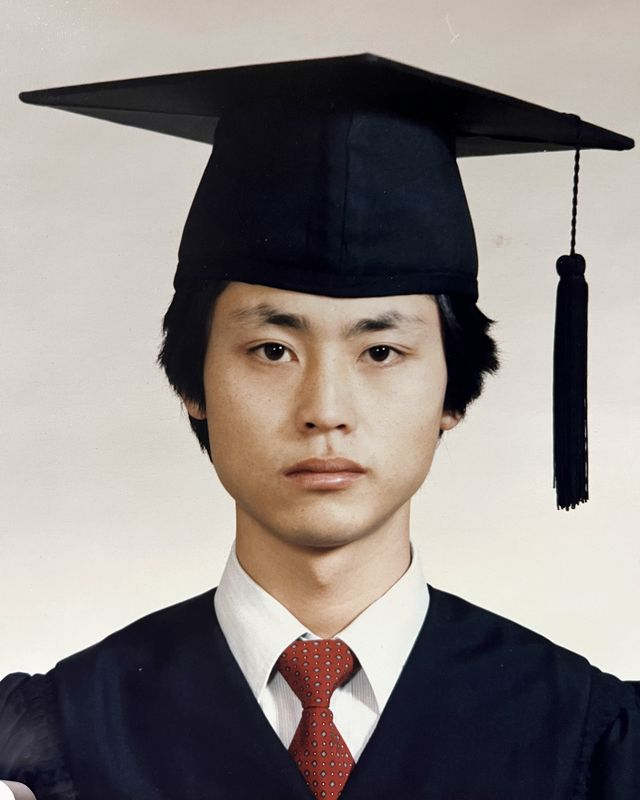
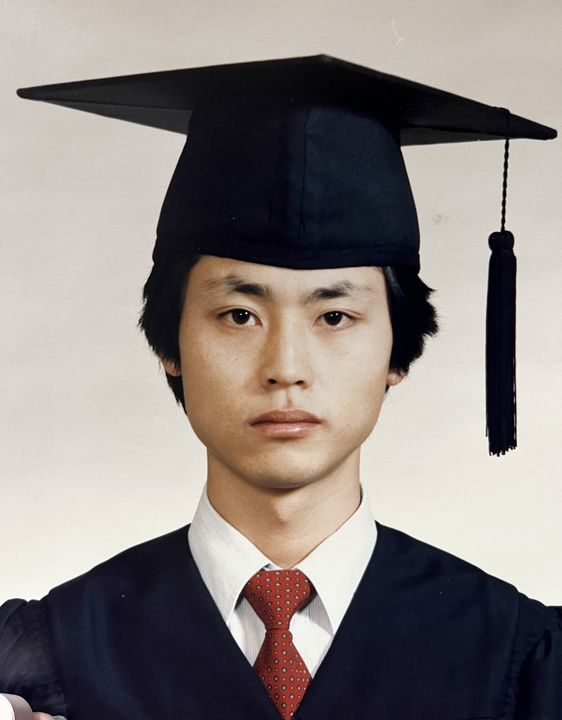
차창: 사진 5장 추가(16장), 원래 비율로, 설명 고침, 객실째 흔들림
Claude-Session: https://claude.ai/code/session_01XSTBUA2D7ZPkhLo72WSm8B

diff --git a/index.html b/index.html
@@ -83,6 +83,8 @@ h2{font-size:21px;font-weight:700;letter-spacing:-.01em;margin:6px 0 6px;text-wr
 
 /* ── 차창 밖 풍경: 객실 안에서 보는 창(객실 사진 cabin.webp = Gemini 로 만든 것, 창유리만 투명). 창밖엔 가족사진만 천천히 흐른다. 사진이 창밖을 채워 흐르고, 사진은 가장자리를 겹쳐 이어진 풍경처럼. (그려 넣은 기둥·울타리·안개·반사는 「그래픽 티가 난다」고 해서 뺌) */
 .cabin{position:relative;margin-top:14px;aspect-ratio:840/836;border-radius:6px;overflow:hidden;background:#E2DED6}
+.car{position:absolute;inset:-2.5%;will-change:transform}
+.shade{position:absolute;inset:0;background:#000;opacity:0;pointer-events:none;z-index:3}
 .cabin-img{position:absolute;inset:0;width:100%;height:100%;pointer-events:none;z-index:2;user-select:none;-webkit-user-drag:none}
 /* 창 자리(cabin_frame.py 가 잰 값보다 살짝 크게 — 가장자리는 창틀 사진이 덮음) */
 .pane{position:absolute;left:8.2%;top:14.8%;width:84%;height:57.8%;overflow:hidden;background:#BFD0DF;
@@ -90,9 +92,9 @@ h2{font-size:21px;font-weight:700;letter-spacing:-.01em;margin:6px 0 6px;text-wr
 .pane:active{cursor:grabbing}
 .pane::after{content:"";position:absolute;inset:0;pointer-events:none;z-index:6;box-shadow:inset 0 14px 16px -10px rgba(0,0,0,.4),inset 0 -8px 12px -8px rgba(0,0,0,.3)}
 .strip{position:absolute;left:0;top:0;bottom:0;display:flex;will-change:transform}
-.strip figure{margin:0 -34px 0 0;height:100%;aspect-ratio:4/5;flex:none;
+.strip figure{margin:0 -34px 0 0;height:100%;flex:none;
   -webkit-mask-image:linear-gradient(90deg,transparent,#000 34px,#000 calc(100% - 34px),transparent);mask-image:linear-gradient(90deg,transparent,#000 34px,#000 calc(100% - 34px),transparent)}
-.strip img{display:block;width:100%;height:100%;object-fit:cover;pointer-events:none;-webkit-user-drag:none}
+.strip img{display:block;width:auto;height:100%;pointer-events:none;-webkit-user-drag:none}
 .halt{position:absolute;right:10px;bottom:10px;z-index:7;background:var(--ink);color:#fff;font-size:11.5px;font-family:var(--mono);padding:4px 8px;border-radius:3px}
 .winnow{display:flex;gap:10px;align-items:baseline;margin:12px 2px 0;font-size:16px;min-height:1.6em}
 .winnow span{font-family:var(--mono);font-size:11px;color:var(--faint)}
@@ -266,25 +268,33 @@ h2{font-size:21px;font-weight:700;letter-spacing:-.01em;margin:6px 0 6px;text-wr
     <h2 id="h-win">함께 지나온 풍경</h2>
     <p class="lead">창밖으로 지나가는 풍경이에요. 창을 누르면 잠시 서고, 손으로 끌어 넘길 수도 있어요</p>
     <div class="cabin">
-      <div class="pane" id="pane" role="img" aria-label="기차 창밖으로 사진 11장이 차례로 지나가요">
-        <div class="strip" id="strip">
-      <figure><img src="p/01.jpg" alt="학사모를 쓴 젊은 시절 박사님" width="640" height="800"><figcaption hidden>출발하던 날</figcaption></figure>
-      <figure><img src="p/02.jpg" alt="웨딩 사진 속 두 분" width="640" height="800"><figcaption hidden>평생의 동행이 탑승했어요</figcaption></figure>
-      <figure><img src="p/04.jpg" alt="계곡 바위 앞에서 웃는 두 분" width="640" height="800"><figcaption hidden>여름, 잠시 쉬어 가는 역</figcaption></figure>
-      <figure><img src="p/05.jpg" alt="쾰른 대성당이 보이는 강가에 선 박사님" width="640" height="800"><figcaption hidden>멀리 유럽까지</figcaption></figure>
-      <figure><img src="p/06.jpg" alt="밤의 대관람차 앞에 선 박사님" width="640" height="800"><figcaption hidden>낯선 도시의 밤</figcaption></figure>
-      <figure><img src="p/07.jpg" alt="겨울 파리에서 목도리를 두른 박사님" width="640" height="800"><figcaption hidden>겨울 파리에서</figcaption></figure>
-      <figure><img src="p/08.jpg" alt="사진관에서 나란히 앉은 두 분" width="640" height="800"><figcaption hidden>나란히, 오래도록</figcaption></figure>
-      <figure><img src="p/09.jpg" alt="케이크 앞에 앉은 두 분" width="640" height="800"><figcaption hidden>작은 축하들</figcaption></figure>
-      <figure><img src="p/10.jpg" alt="거실 소파에서 쉬는 박사님과 브이를 한 어머님" width="640" height="800"><figcaption hidden>집이 제일 좋은 역</figcaption></figure>
-      <figure><img src="p/11.jpg" alt="소파에 누워 브이를 한 박사님" width="640" height="800"><figcaption hidden>이제는 소파역 장기 정차</figcaption></figure>
-      <figure><img src="p/12.jpg" alt="푸른 들판에서 어깨동무하고 웃는 두 분" width="640" height="800"><figcaption hidden>다음 역, 행복한 인생 2막</figcaption></figure>
+      <div class="car" id="car">
+        <div class="pane" id="pane" role="img" aria-label="기차 창밖으로 사진 16장이 차례로 지나가요">
+          <div class="strip" id="strip">
+            <figure><img src="p/01.jpg" alt="학사모를 쓴 젊은 시절 박사님" width="562" height="720"><figcaption hidden>학사모를 쓰던 날</figcaption></figure>
+            <figure><img src="p/02.jpg" alt="웨딩 사진 속 두 분" width="901" height="720"><figcaption hidden>두 분이 함께 출발한 날</figcaption></figure>
+            <figure><img src="p/03.jpg" alt="계곡 바위 앞에서 웃는 두 분" width="557" height="720"><figcaption hidden>계곡에서, 젊은 날의 두 분</figcaption></figure>
+            <figure><img src="p/04.jpg" alt="쾰른 대성당이 보이는 강가에 선 박사님" width="635" height="720"><figcaption hidden>쾰른 대성당 앞 강가에서</figcaption></figure>
+            <figure><img src="p/05.jpg" alt="밤의 대관람차 앞에 선 박사님" width="554" height="720"><figcaption hidden>파리, 대관람차가 빛나던 밤</figcaption></figure>
+            <figure><img src="p/06.jpg" alt="겨울 파리에서 목도리를 두른 박사님" width="584" height="720"><figcaption hidden>목도리를 두른 겨울 파리</figcaption></figure>
+            <figure><img src="p/07.jpg" alt="사진관에서 나란히 앉은 두 분" width="540" height="720"><figcaption hidden>사진관에서, 나란히</figcaption></figure>
+            <figure><img src="p/08.jpg" alt="햇살 아래 목도리를 두른 박사님" width="490" height="720"><figcaption hidden>햇살 좋은 날</figcaption></figure>
+            <figure><img src="p/09.jpg" alt="손을 흔들며 웃는 박사님" width="497" height="720"><figcaption hidden>반갑게 손 흔들며</figcaption></figure>
+            <figure><img src="p/10.jpg" alt="환하게 웃는 박사님" width="464" height="493"><figcaption hidden>환하게 웃으며</figcaption></figure>
+            <figure><img src="p/11.jpg" alt="케이크 앞에 앉은 두 분" width="1250" height="720"><figcaption hidden>케이크 앞에서 두 분</figcaption></figure>
+            <figure><img src="p/12.jpg" alt="영상통화 화면 속 웃는 박사님" width="356" height="720"><figcaption hidden>영상통화 너머 웃음</figcaption></figure>
+            <figure><img src="p/13.jpg" alt="모자를 쓰고 안마의자에 앉은 박사님" width="960" height="720"><figcaption hidden>안마의자에서 쉬는 중</figcaption></figure>
+            <figure><img src="p/14.jpg" alt="거실 소파에서 쉬는 박사님과 브이를 한 어머님" width="923" height="720"><figcaption hidden>거실 소파에서, 함께</figcaption></figure>
+            <figure><img src="p/15.jpg" alt="소파에 누워 브이를 한 박사님" width="1086" height="720"><figcaption hidden>소파에 누워 브이</figcaption></figure>
+            <figure><img src="p/16.jpg" alt="푸른 들판에서 어깨동무하고 웃는 두 분" width="1262" height="720"><figcaption hidden>들판에서 함께 웃으며 · 다음 역, 인생 2막</figcaption></figure>
+          </div>
+          <div class="halt" id="halt" hidden>잠시 정차 중</div>
         </div>
-        <div class="halt" id="halt" hidden>잠시 정차 중</div>
+        <img class="cabin-img" src="cabin.webp" alt="" width="840" height="836">
+        <div class="shade" id="shade" aria-hidden="true"></div>
       </div>
-      <img class="cabin-img" src="cabin.webp" alt="" width="840" height="836">
     </div>
-    <p class="winnow" aria-live="polite"><span id="nowno">01</span><b id="nowcap">출발하던 날</b></p>
+    <p class="winnow" aria-live="polite"><span id="nowno">01</span><b id="nowcap">학사모를 쓰던 날</b></p>
     <div class="rail" id="winrail" aria-hidden="true"></div>
     <div class="rail-ends" aria-hidden="true"><span>출발</span><span>인생 2막</span></div>
   </section>
@@ -353,21 +363,27 @@ const BGM=(function(){const au=new Audio('bgm.mp3');au.loop=true;au.preload='non
   // 메모 쓰기에서 「보기」로 넘어온 경우(#notes)는 첫 화면을 건너뛰고 메모로 바로
   if(location.hash==='#notes'){a.hidden=true;setTimeout(()=>document.getElementById('notes').scrollIntoView(),300)}
 })();
-// 차창 밖 풍경: 사진 띠가 왼쪽으로 천천히 흐르고(끝나면 처음부터 다시), 아주 살짝 흔들림
-(function(){const pane=document.getElementById('pane'),st=document.getElementById('strip'),rl=document.getElementById('winrail'),
+// 차창 밖 풍경: 사진 띠가 왼쪽으로 천천히 흐르고(끝나면 처음부터 다시). 객실(창틀 사진째)은 달리는 기차처럼 살짝 흔들리고,
+// 이음매를 지날 때마다 덜컹 — 창밖 풍경은 반대로 조금 밀려 깊이가 생긴다. 정차 중엔 흔들림도 멈춤. 사진 너비는 제각각.
+(function(){const pane=document.getElementById('pane'),st=document.getElementById('strip'),car=document.getElementById('car'),sh=document.getElementById('shade'),rl=document.getElementById('winrail'),
     halt=document.getElementById('halt'),no=document.getElementById('nowno'),cap=document.getElementById('nowcap'),now=cap.parentNode;
   const fs=[...st.querySelectorAll('figure')],N=fs.length,caps=fs.map(f=>f.querySelector('figcaption').textContent);
   fs.forEach(f=>st.appendChild(f.cloneNode(true)));                     // 이어 붙여서 끊김 없이 돌게
-  const SPEED=reduce?0:22;let x=0,v=SPEED,target=null,paused=false,drag=null,last=0,seen=false,cur=-1,loop=1,pitch=1;
-  const measure=()=>{const a=fs[0].getBoundingClientRect(),b=fs[1].getBoundingClientRect();pitch=b.left-a.left;loop=pitch*N};
-  const bs=caps.map((c,i)=>{const b=document.createElement('button');b.tabIndex=-1;b.addEventListener('click',()=>{target=i*pitch+pitch/2-pane.clientWidth/2;paused=false;halt.hidden=true});rl.appendChild(b);return b});
+  const SPEED=reduce?0:22;let x=0,target=null,paused=false,drag=null,last=0,seen=false,cur=-1,loop=1,mid=[],nextJ=1500,jt=-1e9,jA=0;
+  const measure=()=>{const o=st.getBoundingClientRect().left;mid=fs.map(f=>{const r=f.getBoundingClientRect();return r.left-o+r.width/2});
+    const a=fs[0].getBoundingClientRect(),c=st.children[N].getBoundingClientRect();loop=c.left-a.left||1};
+  const bs=caps.map((c,i)=>{const b=document.createElement('button');b.tabIndex=-1;b.addEventListener('click',()=>{target=mid[i]-pane.clientWidth/2;paused=false;halt.hidden=true});rl.appendChild(b);return b});
   const mod=(a,m)=>((a%m)+m)%m;
-  function frame(t){const dt=Math.min(.05,(t-(last||t))/1000);last=t;
+  function frame(t){const dt=Math.min(.05,(t-(last||t))/1000);last=t;const moving=!reduce&&!paused&&!drag;
     if(target!==null){const L=loop,d=mod(target-x+L/2,L)-L/2;x+=d*Math.min(1,dt*4);if(Math.abs(d)<1){x=target;target=null}}
-    else if(!paused&&!drag)x+=v*dt;
-    x=mod(x,loop);const sway=reduce||paused||drag?0:Math.sin(t/520)*.7;
-    st.style.transform=`translate3d(${-x}px,${sway}px,0)`;
-    const k=mod(Math.round((x+pane.clientWidth/2-pitch/2)/pitch),N);
+    else if(moving)x+=SPEED*dt;
+    x=mod(x,loop);
+    // 흔들림: 느린 좌우·위아래 + 이음매 덜컹(감쇠 진동, 1.4~2.6초 간격)
+    let cx=0,cy=0,cr=0;if(moving){if(t>nextJ){jt=t;jA=1.4+Math.random()*1.2;nextJ=t+1400+Math.random()*1200}
+      const e=(t-jt)/1000,jolt=e<.6?jA*Math.exp(-e*9)*Math.sin(e*42):0;cx=Math.sin(t/1700)*.9;cy=Math.sin(t/640)*.7+jolt;cr=Math.sin(t/2300)*.12}
+    car.style.transform=`translate3d(${cx}px,${cy}px,0) rotate(${cr}deg)`;st.style.transform=`translate3d(${-x-cx*.6}px,${-cy*.8}px,0)`;
+    sh.style.opacity=moving?(.025+.025*Math.sin(t/2900)).toFixed(3):0;
+    const c=x+pane.clientWidth/2;let k=0,dd=1e9;mid.forEach((m,i)=>{const d=Math.abs(mod(c-m+loop/2,loop)-loop/2);if(d<dd){dd=d;k=i}});
     if(k!==cur){cur=k;no.textContent=String(k+1).padStart(2,'0');cap.textContent=caps[k];now.classList.toggle('last',k===N-1);bs.forEach((b,i)=>b.classList.toggle('on',i===k))}
     if(seen)requestAnimationFrame(frame)}
   new IntersectionObserver(es=>{const s=es[0].isIntersecting;if(s&&!seen){seen=true;last=0;requestAnimationFrame(frame)}else if(!s)seen=false},{threshold:.15}).observe(pane);
@@ -375,7 +391,7 @@ const BGM=(function(){const au=new Audio('bgm.mp3');au.loop=true;au.preload='non
   pane.addEventListener('pointermove',e=>{if(!drag)return;const d=e.clientX-drag.x;if(Math.abs(d)>4)drag.moved=true;x=drag.x0-d;target=null});
   const up=()=>{if(!drag)return;if(!drag.moved){paused=!paused;halt.hidden=!paused}drag=null};
   pane.addEventListener('pointerup',up);pane.addEventListener('pointercancel',()=>{drag=null});
-  measure();addEventListener('resize',measure);fs[0].querySelector('img').addEventListener('load',measure);
+  measure();addEventListener('resize',measure);st.querySelectorAll('img').forEach(i=>i.addEventListener('load',measure));
   if(reduce){paused=true}})();
 // 가족 승객 메모 불러오기
 (function(){const API='https://firestore.googleapis.com/v1/projects/park-retirement-2610/databases/(default)/documents/notes?key=AIzaSyBZsj0Z2nIA7YWi4Ty0Fkn-zELn-eUxX04',box=document.getElementById('notelist');
